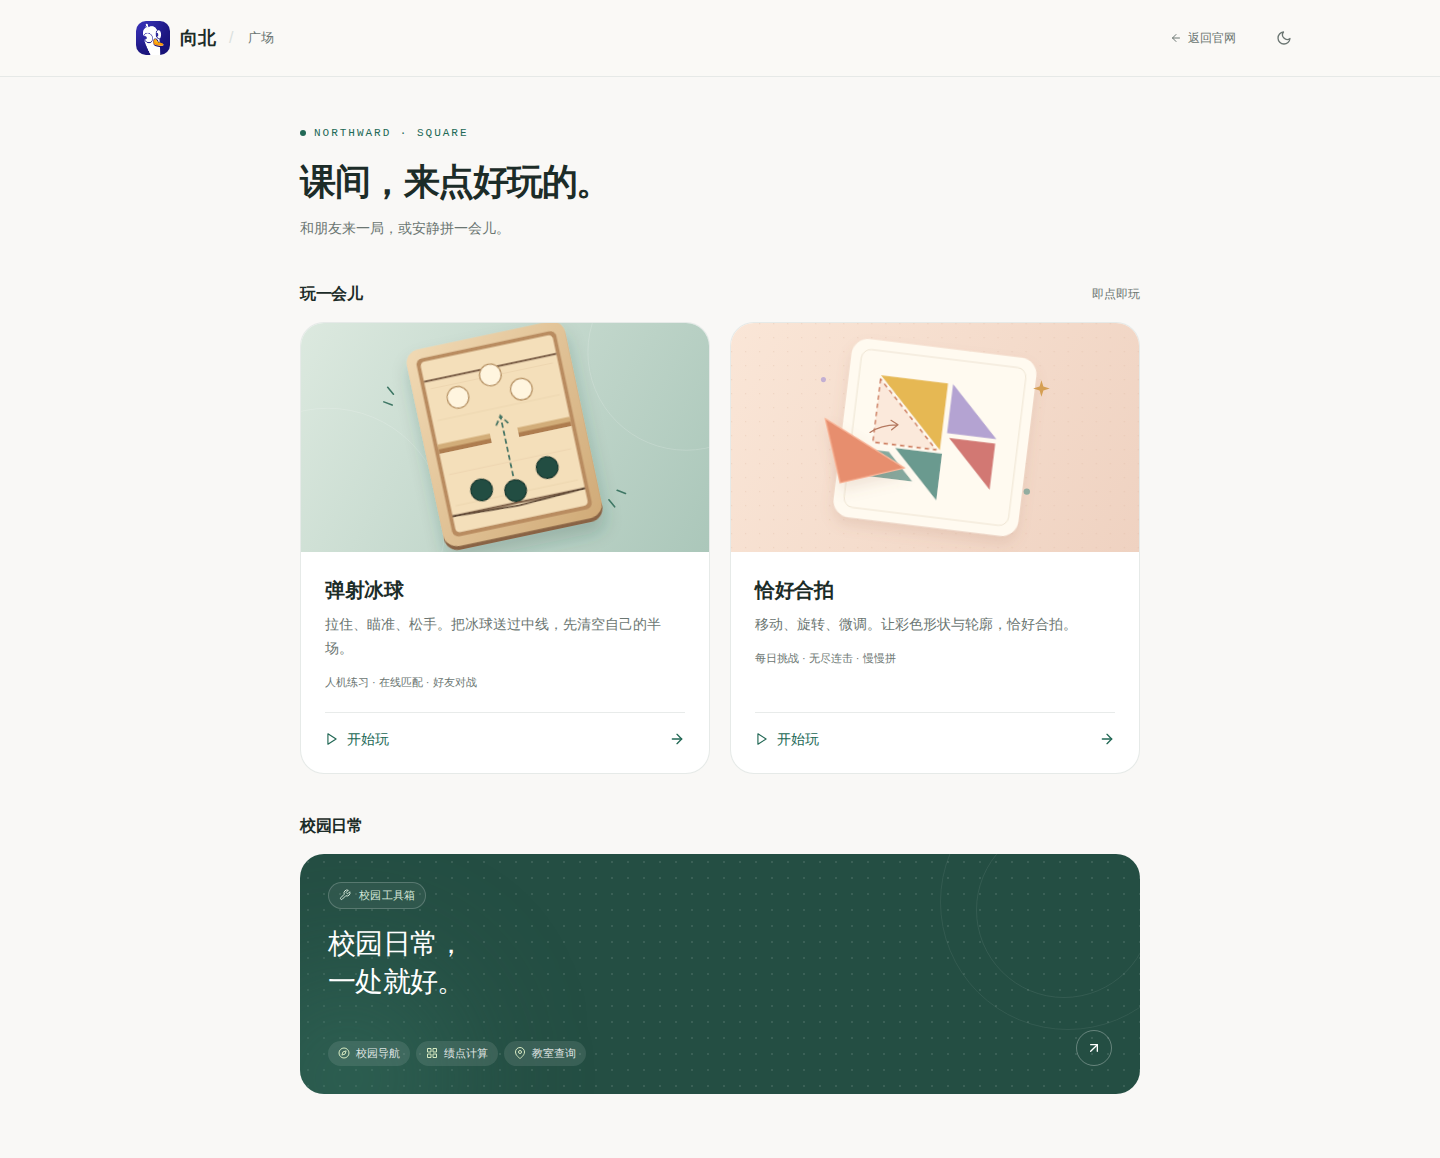
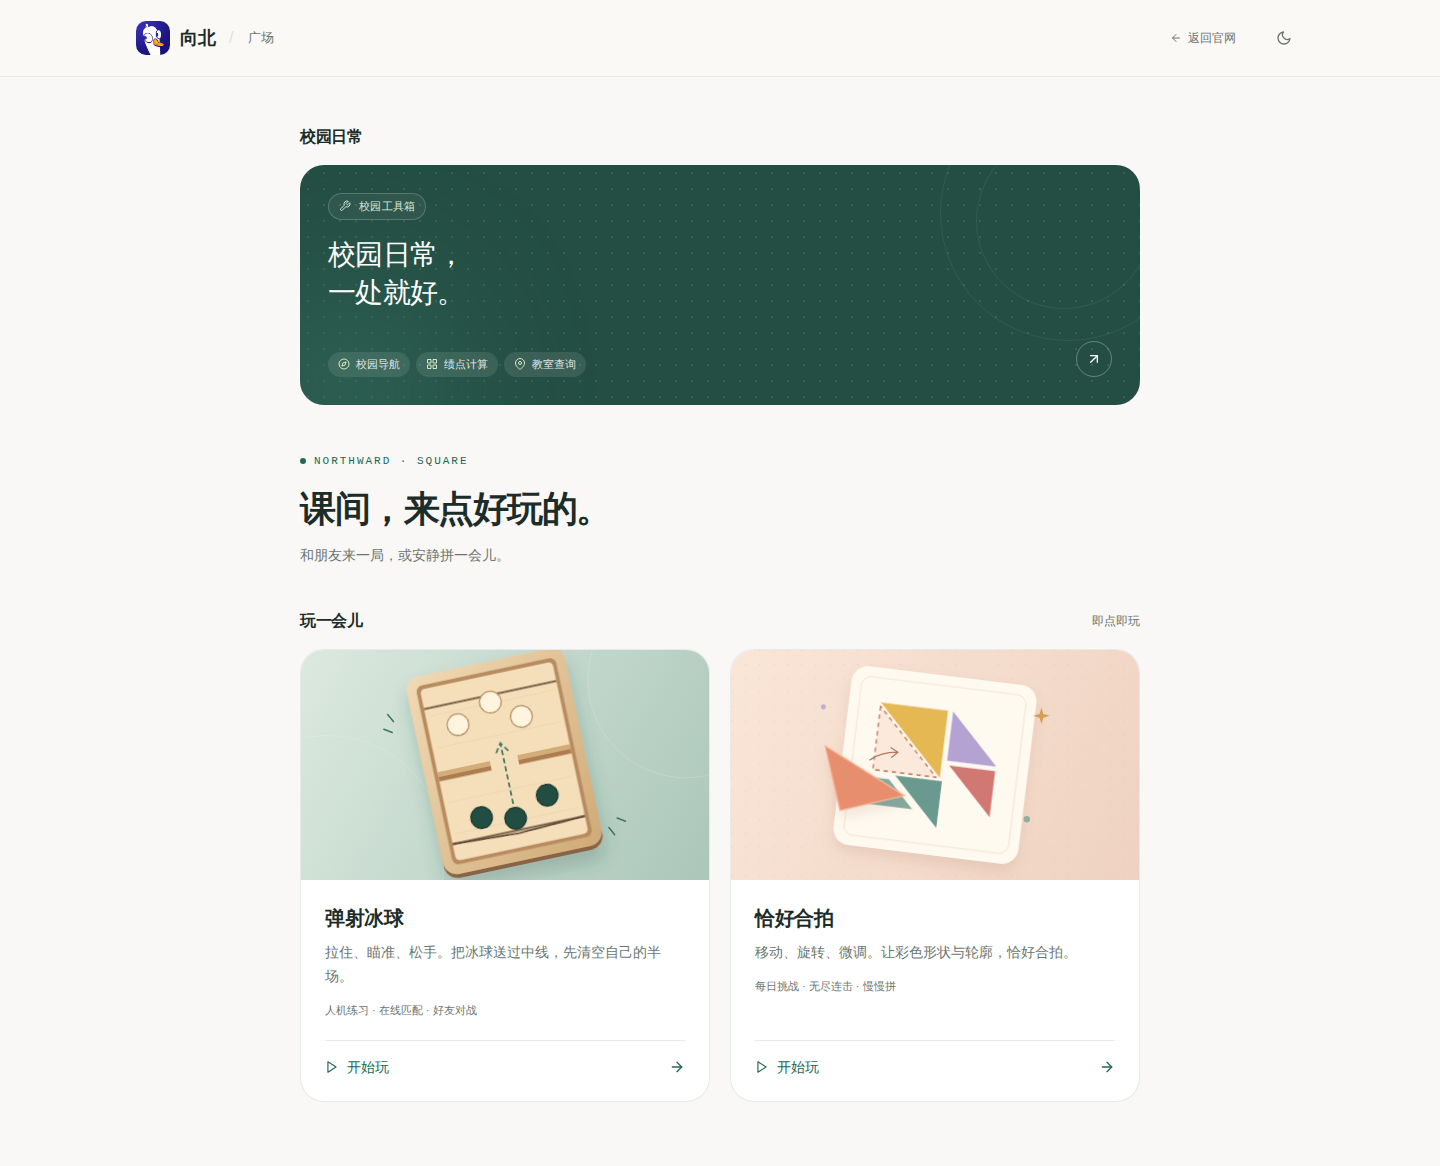
docs(square): refresh toolbox-first browser screenshots

diff --git a/docs/广场游戏接入.md b/docs/广场游戏接入.md
@@ -1,6 +1,6 @@
 # 广场游戏接入
 
-`/square/` 默认只保留校园工具箱和筹备提示。构建时明确设置 `SQUARE_GAMES_ENABLED=true` 才展示弹射冰球与恰好合拍入口；未设置或其他值均隐藏。该开关在构建时写入静态产物，启用或关闭都需要重新构建并发布，修改运行环境不会改变已发布页面。Ops 的官网发布流程提供默认关闭的 `enable_square_games` 输入。
+`/square/` 的内容区首先展示校园工具箱，游戏介绍和入口排在后面；默认只保留校园工具箱和筹备提示。构建时明确设置 `SQUARE_GAMES_ENABLED=true` 才展示弹射冰球与恰好合拍入口；未设置或其他值均隐藏。该开关在构建时写入静态产物，启用或关闭都需要重新构建并发布，修改运行环境不会改变已发布页面。Ops 的官网发布流程提供默认关闭的 `enable_square_games` 输入。
 
 内容、玩法说明、封面和 URL 集中在 `src/features/square/content/square.ts`；静态 SVG 封面位于 `public/assets/games/`。卡片只展示入口，不预加载游戏引擎。隐藏卡片不是认证开关，直接访问游戏和启动页仍需后端、游戏服务各自验证身份。
 
@@ -44,7 +44,7 @@
 
 功能提交 `37014a5fb638b0ac93250b35f0917c3feb6b1628` 已合入主干 `cbf78b4` 的 Node SSR 与分享页。`astro check` 为 0 错误、0 警告、4 个原有提示；工具测试 39/39、分享页测试 10/10 通过。开启/关闭开关分别构建，生成 2/0 个游戏卡片。
 
-[CI 46114204139](https://github.com/jlu-northward/Official-Website/actions/runs/46114204139) 和 `46114200966` 均通过开关双矩阵的冰球浏览器回归。当前四张截图取自前一运行的对应矩阵产物，已人工检查，无裁切或横向溢出；它们来自 Linux Chromium，不代表 App 真机结果。
+[CI 46114204139](https://github.com/jlu-northward/Official-Website/actions/runs/46114204139) 和 `46114200966` 均通过开关双矩阵的冰球浏览器回归。随后按用户要求将校园工具箱置顶，布局提交 `abad1fa47b111ef0d7f58ba2b03d0bfa3f471619` 的 CI [46115501226](https://github.com/jlu-northward/Official-Website/actions/runs/46115501226) 与 `46115496845` 也通过双矩阵。当前四张截图取自 `46115501226` 的对应矩阵产物，已人工确认工具箱位于最上方、无裁切或横向溢出；它们来自 Linux Chromium，不代表 App 真机结果。
 
 | 状态 | 桌面 | 320px 手机 |
 | --- | --- | --- |
